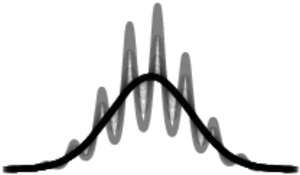
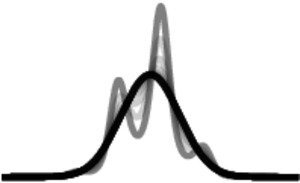
maxent: update paper version to start with a lower frequency

Changed region(s): [[0.06, 0.0, 1.0, 1.0], [0.0, 0.9429, 0.03, 1.0]]

diff --git a/fig/maxent.py b/fig/maxent.py
@@ -15,12 +15,12 @@ plt.rcParams.update({
     "font.sans-serif": ["Computer Modern Roman"]})
 plt.style.use('bmh')
 
-phi = jnp.array([0., 1.5, .7, 6.]) # Parameters to learn
+phi = jnp.array([0., .7, 4.]) # Parameters to learn
 
 @jax.jit
 def compute_dist(x, phi):
     # Compute values at the discretized points in the domain
-    v = jnp.exp(-0.5*((x-phi[0])/phi[1])**2 + phi[2]*jnp.sin(x*phi[3]))
+    v = jnp.exp(-0.5*(x-phi[0])**2 + phi[1]*jnp.sin(x*phi[2]))
     dx = x[1:]-x[:-1]
     y = v/sum(v[1:]*dx) # Normalize to be a proper distribution.
     flow_x = flow(x, y) # Constrain the mean and variance.

diff --git a/README.md b/README.md
@@ -18,8 +18,10 @@ the following plots:
 
 ![](./fig/learning-rl.png?raw=true)
 
-## [maxent.py](./fig/maxent.py)
+## [maxent-animation.py](./fig/maxent-animation.py)
 ![](./fig/maxent.gif?raw=true)
+
+## [maxent.py](./fig/maxent.py)
 ![](./fig/maxent.png?raw=true)
 
 ## [ctrl.py](./fig/ctrl.py)
